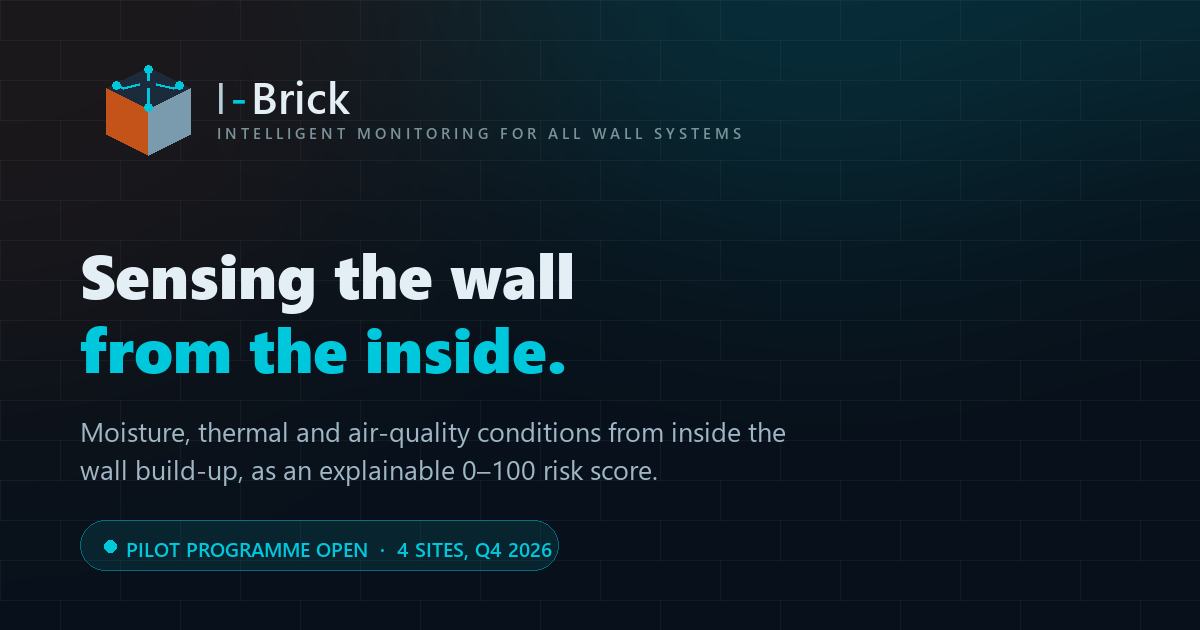
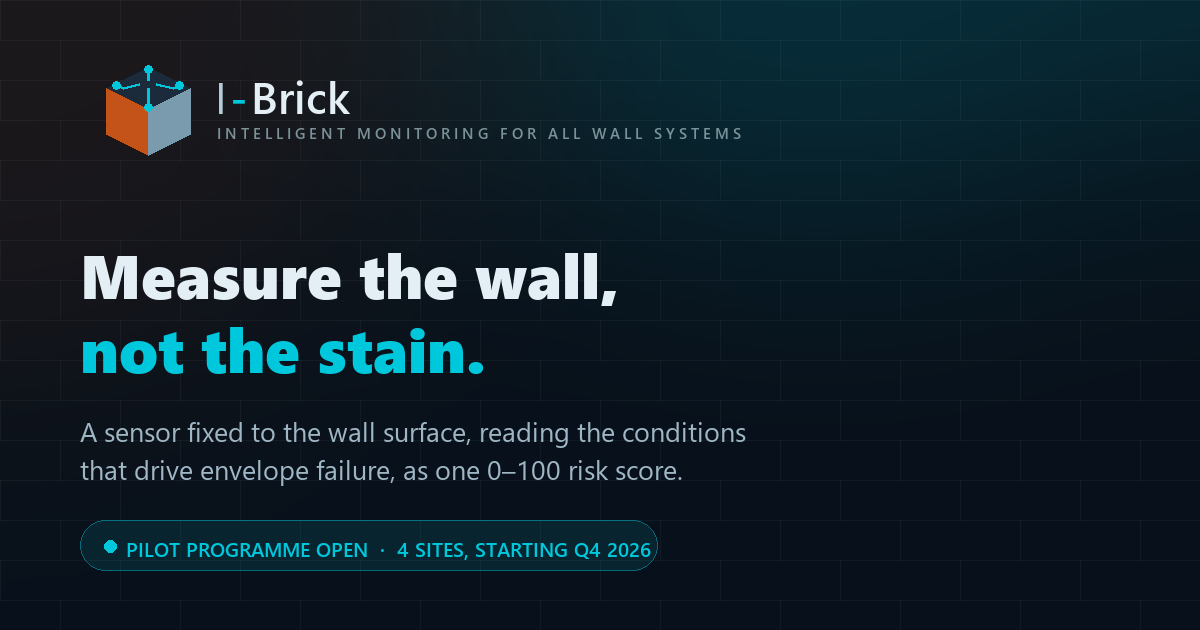
Correct the claims the readiness audit flagged
The node is fixed to the wall surface, so the page no longer says it sits
inside the build-up: title, meta description, hero, how-it-works, the three
families lede and the link preview card.

Alerts are described as limit or duration based rather than predictive, since
the slope-based early warning layer was removed from the engine for lack of
evidence. Store and forward is bounded by a 60 reading queue, so the page no
longer claims nothing is lost during an outage.

The structural family becomes thermal: vibration is one accelerometer sample
per 30 s and the structural trend layer is not wired into the orchestrator,
so a fabric behaviour trend cannot be claimed. Thermal is hedged on having a
real temperature difference across the wall.

Also removes the cross-elevation comparison from the sample output, drops the
power-free and network-free variant from the pilot terms, labels the insurance
figures as US, moves the pilot to starting Q4 2026, and crops the dashboard
screenshot above the live device count.

Changed region(s): [[0.0617, 0.3921, 0.5242, 0.6032], [0.0617, 0.6635, 0.6475, 0.7841], [0.4008, 0.8444, 0.555, 0.9048]]

diff --git a/index.html b/index.html
@@ -3,14 +3,14 @@
 <head>
 <meta charset="utf-8">
 <meta name="viewport" content="width=device-width, initial-scale=1">
-<title>I-Brick | Sensing the wall from the inside</title>
-<meta name="description" content="I-Brick sits inside the wall and catches envelope moisture months before it is visible, as a single explainable 0–100 risk score with the reasoning attached. Pilot programme open.">
+<title>I-Brick | Continuous damp monitoring, wall by wall</title>
+<meta name="description" content="I-Brick fixes to the wall surface and reads the conditions that drive envelope failure, continuously, as a single explainable 0–100 risk score with the reasoning attached. Pilot programme open.">
 <link rel="canonical" href="https://ckteja.github.io/i-brick/">
 
 <meta property="og:type" content="website">
 <meta property="og:site_name" content="I-Brick">
-<meta property="og:title" content="I-Brick | Sensing the wall from the inside">
-<meta property="og:description" content="Catch envelope moisture while the fix is still cheap. An explainable 0–100 risk score and a report an engineer can act on. Pilot programme open for Q4 2026.">
+<meta property="og:title" content="I-Brick | Continuous damp monitoring, wall by wall">
+<meta property="og:description" content="Catch envelope moisture while the fix is still cheap. An explainable 0–100 risk score and a report an engineer can act on. Pilot programme open, starting Q4 2026.">
 <meta property="og:url" content="https://ckteja.github.io/i-brick/">
 <meta property="og:image" content="https://ckteja.github.io/i-brick/assets/og.png">
 <meta property="og:image:width" content="1200">
@@ -224,17 +224,17 @@ footer .cr{margin-top:18px;font-size:12.5px;color:#5C7684;max-width:70ch}
     <rect width="100%" height="100%" fill="url(#brickwork)"/>
   </svg>
   <div class="wrap">
-    <span class="chip"><span class="pulse"></span> Pilot programme open · 4 sites, Q4 2026</span>
+    <span class="chip"><span class="pulse"></span> Pilot programme open · 4 sites, starting Q4 2026</span>
     <h1>By the time you can see the damp patch, it has been <em>growing for months</em>.</h1>
-    <p class="lede">I-Brick sits inside the wall and watches the conditions that drive envelope
-      failure, turning them into a single 0–100 risk score with the reasoning attached. You get a
-      decision, months before the damage is visible, not a raw data dump.</p>
+    <p class="lede">I-Brick fixes to the wall surface and watches the conditions that drive
+      envelope failure, continuously, turning them into a single 0–100 risk score with the
+      reasoning attached. You get a decision about that wall, not a raw data dump.</p>
     <div class="cta">
       <a class="btn btn-p" href="#contact">Apply for a pilot →</a>
       <a class="btn btn-s" href="#measures">See what it watches for</a>
     </div>
     <div class="spec">
-      <span><b>Install:</b> one wall, no disruption to the occupant</span>
+      <span><b>Install:</b> fixed to the wall surface, no chasing, no disruption</span>
       <span><b>Runs:</b> continuously, reporting on its own</span>
       <span><b>Output:</b> live dashboard · alerts · engineer-ready report</span>
     </div>
@@ -246,8 +246,8 @@ footer .cr{margin-top:18px;font-size:12.5px;color:#5C7684;max-width:70ch}
     <span class="eyebrow">The problem</span>
     <h2 class="mt14">Damp is the most common building defect, and the last one anyone measures.</h2>
     <p class="lede">Envelope moisture gets diagnosed visually, after the fact, by whoever happens to be
-      standing in the room. The conditions that caused it were present for months inside the wall,
-      where nobody was looking.</p>
+      standing in the room. The conditions that caused it were building for months on a wall
+      nobody was measuring.</p>
     <div class="grid g3" style="margin-top:36px">
       <div class="stat">
         <b>15.6%</b>
@@ -261,7 +261,7 @@ footer .cr{margin-top:18px;font-size:12.5px;color:#5C7684;max-width:70ch}
       </div>
       <div class="stat">
         <b>22.6%</b>
-        <p>of home insurance claims are water damage and freezing, the second most common cause of loss. The average claim is $15,400.</p>
+        <p>of US home insurance claims are water damage and freezing, the second most common cause of loss. The average claim is $15,400.</p>
         <cite>Insurance Information Institute, 2023 claim year · <a href="https://www.iii.org/fact-statistic/facts-statistics-homeowners-and-renters-insurance" target="_blank" rel="noopener">source</a></cite>
       </div>
     </div>
@@ -271,21 +271,21 @@ footer .cr{margin-top:18px;font-size:12.5px;color:#5C7684;max-width:70ch}
 <section id="how">
   <div class="wrap">
     <span class="eyebrow">How it works</span>
-    <h2 class="mt14">Four steps from inside the wall to a decision.</h2>
+    <h2 class="mt14">Four steps from the wall to a decision.</h2>
     <div class="flow">
       <div class="step">
         <svg viewBox="0 0 24 24"><rect x="3" y="4" width="18" height="7" rx="1"/><rect x="3" y="13" width="18" height="7" rx="1"/><path d="M12 4v7M8 13v7M16 13v7"/></svg>
         <div class="n">01 · NODE</div>
-        <h3>Sensor in the wall</h3>
-        <p>A node sized to sit within the wall build-up, sampling conditions inside the
-           structure rather than room air two metres away.</p>
+        <h3>Sensor on the wall</h3>
+        <p>A node fixed to the wall surface, reading the air against the wall itself rather
+           than room air two metres away. No chasing, no drilling into the fabric.</p>
       </div>
       <div class="step">
         <svg viewBox="0 0 24 24"><rect x="4" y="4" width="16" height="16" rx="2"/><path d="M9 9h6v6H9zM2 9h2M2 15h2M20 9h2M20 15h2M9 2v2M15 2v2M9 20v2M15 20v2"/></svg>
         <div class="n">02 · ON SITE</div>
         <h3>Works unattended</h3>
-        <p>It keeps recording through network outages and reports on its own once connection
-           returns. Nobody has to visit the wall, and nothing is lost while they don't.</p>
+        <p>It keeps recording through a network dropout and sends the backlog once the
+           connection returns, so an outage costs you a gap of minutes, not a site visit.</p>
       </div>
       <div class="step">
         <svg viewBox="0 0 24 24"><path d="M12 2v6M12 16v6M4.9 4.9l4.2 4.2M14.9 14.9l4.2 4.2M2 12h6M16 12h6M4.9 19.1l4.2-4.2M14.9 9.1l4.2-4.2"/><circle cx="12" cy="12" r="3"/></svg>
@@ -298,8 +298,9 @@ footer .cr{margin-top:18px;font-size:12.5px;color:#5C7684;max-width:70ch}
         <svg viewBox="0 0 24 24"><rect x="3" y="3" width="18" height="14" rx="2"/><path d="M7 21h10M12 17v4M7 12l3-3 2.5 2.5L17 7"/></svg>
         <div class="n">04 · ACT</div>
         <h3>Dashboard, alerts, report</h3>
-        <p>A live view across every wall you monitor, alerts before a threshold is crossed rather
-           than after, and a PDF report per wall or per building for hand-off to an engineer or insurer.</p>
+        <p>A live view across every wall you monitor, alerts when a condition crosses a limit or
+           persists too long to ignore, and a PDF report per wall or per building for hand-off to an
+           engineer or insurer.</p>
       </div>
     </div>
   </div>
@@ -310,8 +311,8 @@ footer .cr{margin-top:18px;font-size:12.5px;color:#5C7684;max-width:70ch}
     <span class="eyebrow">What it watches</span>
     <h2 class="mt14">Three things worth knowing about a wall.</h2>
     <p class="lede">A wall fails slowly, and it signals long before anyone sees a stain. I-Brick
-      watches the three families of condition that matter, from inside the build-up rather than from
-      the room, and reports what they mean rather than what they read.</p>
+      watches the three families of condition that matter, at the wall surface rather than in the
+      middle of the room, and reports what they mean rather than what they read.</p>
     <div class="grid g3" style="margin-top:36px">
       <div class="card">
         <h3>Environmental</h3>
@@ -320,10 +321,11 @@ footer .cr{margin-top:18px;font-size:12.5px;color:#5C7684;max-width:70ch}
           recovering from one November storm from a wall that never recovers at all.</p>
       </div>
       <div class="card">
-        <h3>Structural</h3>
-        <p>Change in how the fabric itself behaves over time. A wall in trouble starts behaving
-          differently long before it cracks, so a developing problem arrives as a trend on a chart
-          instead of as a phone call from a tenant.</p>
+        <h3>Thermal</h3>
+        <p>How the wall performs against its own record, week on week. A section that starts
+          losing more heat than it used to is usually a section that has taken on water, so the
+          thermal signal corroborates the moisture one. It needs a real temperature difference
+          across the wall to mean anything, and in mild weather we say so rather than guess.</p>
       </div>
       <div class="card">
         <h3>Indoor</h3>
@@ -332,9 +334,11 @@ footer .cr{margin-top:18px;font-size:12.5px;color:#5C7684;max-width:70ch}
           household, which is usually the question in dispute.</p>
       </div>
     </div>
-    <p class="note"><b>The rule the product enforces:</b> when we have not measured something, we say
-      so. A risk score that quietly treats “not measured” as “measured and fine” is worse than no
-      score at all, so ours reports it as <em>unassessed</em> and moves on.</p>
+    <p class="note"><b>The rule the product enforces:</b> when we have not measured something, we
+      say so. The node reads the air against the wall; the condition of the surface itself is
+      modelled from that reading and labelled as modelled, never dressed up as a probe inside the
+      masonry. A risk score that quietly treats “not measured” as “measured and fine” is worse than
+      no score at all, so ours reports it as <em>unassessed</em> and moves on.</p>
   </div>
 </section>
 
@@ -379,11 +383,11 @@ footer .cr{margin-top:18px;font-size:12.5px;color:#5C7684;max-width:70ch}
         <span class="tag">Illustrative output</span>
       </div>
       <div class="bd">
-        <b>This wall has been wet for most of the last twelve hours</b>, and it is not drying between
-        episodes the way the rest of the elevation does. The pattern is condensation forming on the
-        inner face rather than water arriving from outside, which points at ventilation and heating
-        before it points at the fabric. <b>Recommended:</b> investigate before the next cold spell,
-        while the fix is still a change in how the room is used.
+        <b>This wall has been close to condensation for most of the last twelve hours</b>, and it is
+        not recovering between episodes the way it did last week. The signature looks like
+        condensation on the inner face rather than water arriving from outside, which points at
+        ventilation and heating before it points at the fabric. <b>Recommended:</b> investigate
+        before the next cold spell, while the fix is still a change in how the room is used.
       </div>
     </div>
   </div>
@@ -398,9 +402,9 @@ footer .cr{margin-top:18px;font-size:12.5px;color:#5C7684;max-width:70ch}
       insurer will accept.</p>
     <div class="shots">
       <figure>
-        <div class="shot"><img src="assets/overview.webp" alt="Portfolio overview showing a health score of 75 out of 100, live sensor count, active alerts, the highest-risk wall, and headline findings for mould, condensation and ventilation" loading="lazy" width="1440" height="629"></div>
-        <figcaption>One score for the whole portfolio, the walls that need attention ranked above
-          the ones that do not, and the headline finding for each in words rather than numbers.</figcaption>
+        <div class="shot"><img src="assets/overview.webp" alt="Portfolio overview showing a health score of 75 out of 100 and the open critical alerts across the monitored estate" loading="lazy" width="1035" height="278"></div>
+        <figcaption>One score for the whole portfolio, with what needs attention stated in words
+          rather than left in a chart for someone to interpret.</figcaption>
       </figure>
       <figure>
         <div class="shot"><img src="assets/reports.webp" alt="Reports page offering CSV, JSON and branded PDF structural health reports per device and per building" loading="lazy" width="1440" height="665"></div>
@@ -443,7 +447,7 @@ footer .cr{margin-top:18px;font-size:12.5px;color:#5C7684;max-width:70ch}
   <div class="wrap">
     <span class="eyebrow">The offer</span>
     <h2 class="mt14">A 12-week pilot, at no cost, on one wall that worries you.</h2>
-    <p class="lede">We are taking four sites this quarter. We would rather instrument a wall with a
+    <p class="lede">We are taking four sites in this round. We would rather instrument a wall with a
       known problem than a perfect one: the corner that keeps coming back, the flat with repeat
       complaints, the retrofit you want verified.</p>
     <div class="grid g2" style="margin-top:34px">
@@ -462,7 +466,7 @@ footer .cr{margin-top:18px;font-size:12.5px;color:#5C7684;max-width:70ch}
         <div class="h">What we need from you</div>
         <ul>
           <li><b>One wall or zone</b> with a suspected moisture or thermal problem</li>
-          <li><b>Power and network</b> within reach of the wall, or tell us it has neither and we bring the version that does not need them</li>
+          <li><b>Power and Wi-Fi</b> within reach of the wall. If the spot you care about has neither, tell us and we will find the nearest usable position with you</li>
           <li><b>Two 30-minute calls</b>, one to scope it and one to walk through the findings</li>
           <li><b>Permission to use anonymised readings</b> to improve the risk engine. No site name, no address, no occupant data, ever</li>
         </ul>
